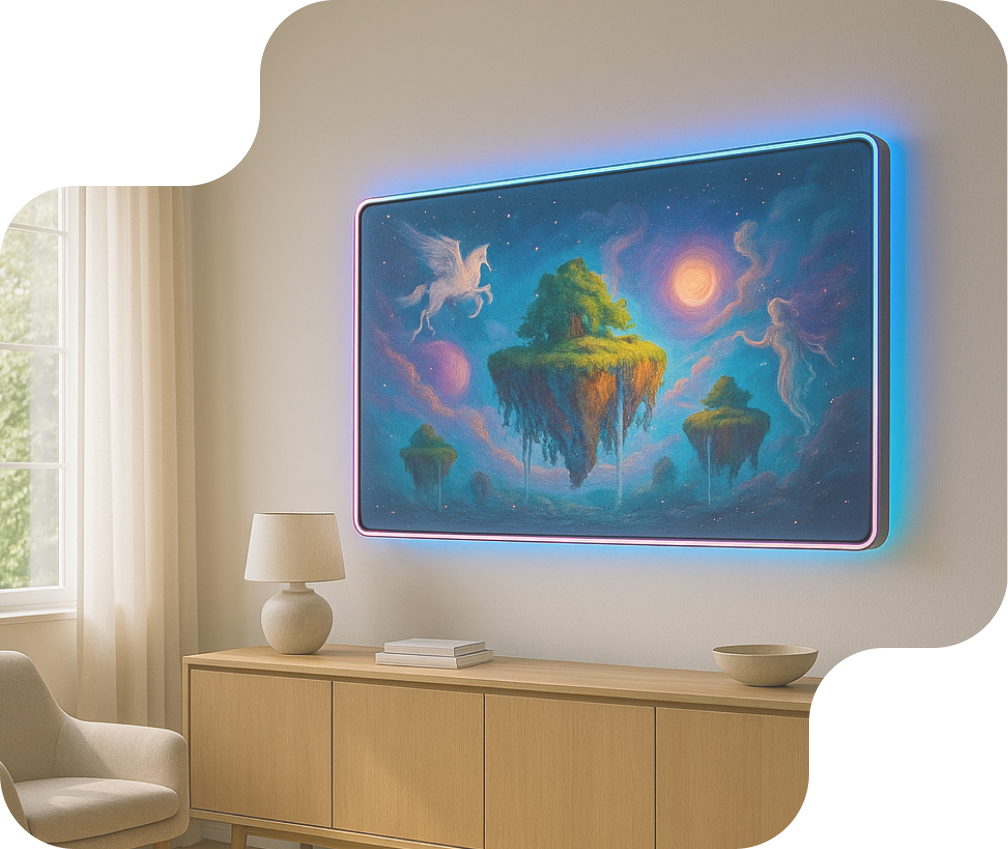
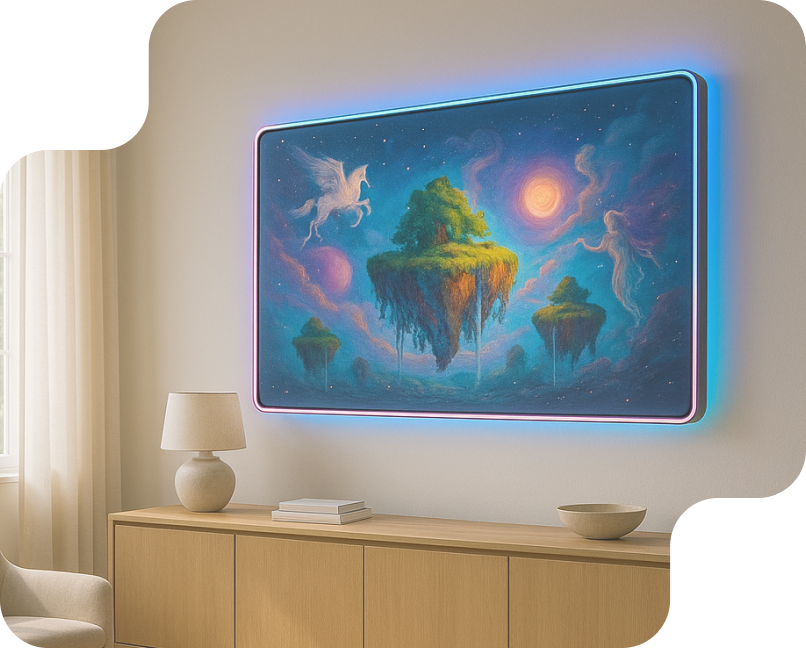
hero changed

diff --git a/deckoviz_web-main/src/components/homepage/Hero.tsx b/deckoviz_web-main/src/components/homepage/Hero.tsx
@@ -82,28 +82,52 @@ const Hero: React.FC = () => {
 
   const leftImages = [
     "/images/lefthero1.png",
-    "/images/lefthero2.png", 
-    "/images/lefthero3.png",
+    "/images/lefthero7.png",
+    "/images/lefthero8.png",
+    "/images/lefthero9.png",
     "/images/lefthero4.png",
-    "/images/lefthero5.png"
+    "/images/lefthero5.png",
+    "/images/lefthero6.png",
+    "/images/lefthero2.png",
+    "/images/lefthero3.png",
+  
 
   ]
 
   const rightImages = [
     "/images/righthero1.png",
+    "/images/righthero7.png",
+    "/images/righthero8.png",
+    "/images/righthero4.png",
+    "/images/righthero5.png",
+    "/images/righthero6.png",
     "/images/righthero2.png",
     "/images/righthero3.png"
     
   ]
 
-  useEffect(() => {
-    const interval = setInterval(() => {
-      setLeftImageIndex((prev) => (prev + 1) % leftImages.length)
-      setRightImageIndex((prev) => (prev + 1) % rightImages.length)
-    }, 4000) // Changed to 4 seconds for slower transitions
+ useEffect(() => {
+  const interval = setInterval(() => {
+    // Generate random indices, ensuring they're different from current ones
+    setLeftImageIndex((prev) => {
+      let newIndex;
+      do {
+        newIndex = Math.floor(Math.random() * leftImages.length);
+      } while (newIndex === prev && leftImages.length > 1);
+      return newIndex;
+    });
+    
+    setRightImageIndex((prev) => {
+      let newIndex;
+      do {
+        newIndex = Math.floor(Math.random() * rightImages.length);
+      } while (newIndex === prev && rightImages.length > 1);
+      return newIndex;
+    });
+  }, 4000);
 
-    return () => clearInterval(interval)
-  }, [])
+  return () => clearInterval(interval);
+}, []);
 
   return (
     <section className="py-14 md:py-12 lg:py-10 overflow-hidden relative bg-white">
@@ -235,7 +259,7 @@ const Hero: React.FC = () => {
             </div>
 
             {/* Right Image - Fixed container with smooth transitions */}
-            <div className="relative flex-1 flex justify-end">
+            <div className="relative flex-1 flex justify-end ml">
               {/* Gradient glow behind right image */}
               <div
                 className="absolute inset-0 transform"

diff --git a/deckoviz_web-main/src/components/homepage/FAQ.tsx b/deckoviz_web-main/src/components/homepage/FAQ.tsx
@@ -367,7 +367,7 @@ const FAQ: React.FC = () => {
           {/* Main content container - made wider */}
           <div className="relative max-w-6xl mx-auto px-4">
             {/* Large Mail Icon - positioned to overlap */}
-            <div className="flex justify-center relative z-50 mb-16">
+            <div className="flex justify-center relative z-20 mb-16">
               <img src="/images/mailnoti.png" alt="Mail Notification" className="w-32 h-32 object-contain" />
             </div>
 
